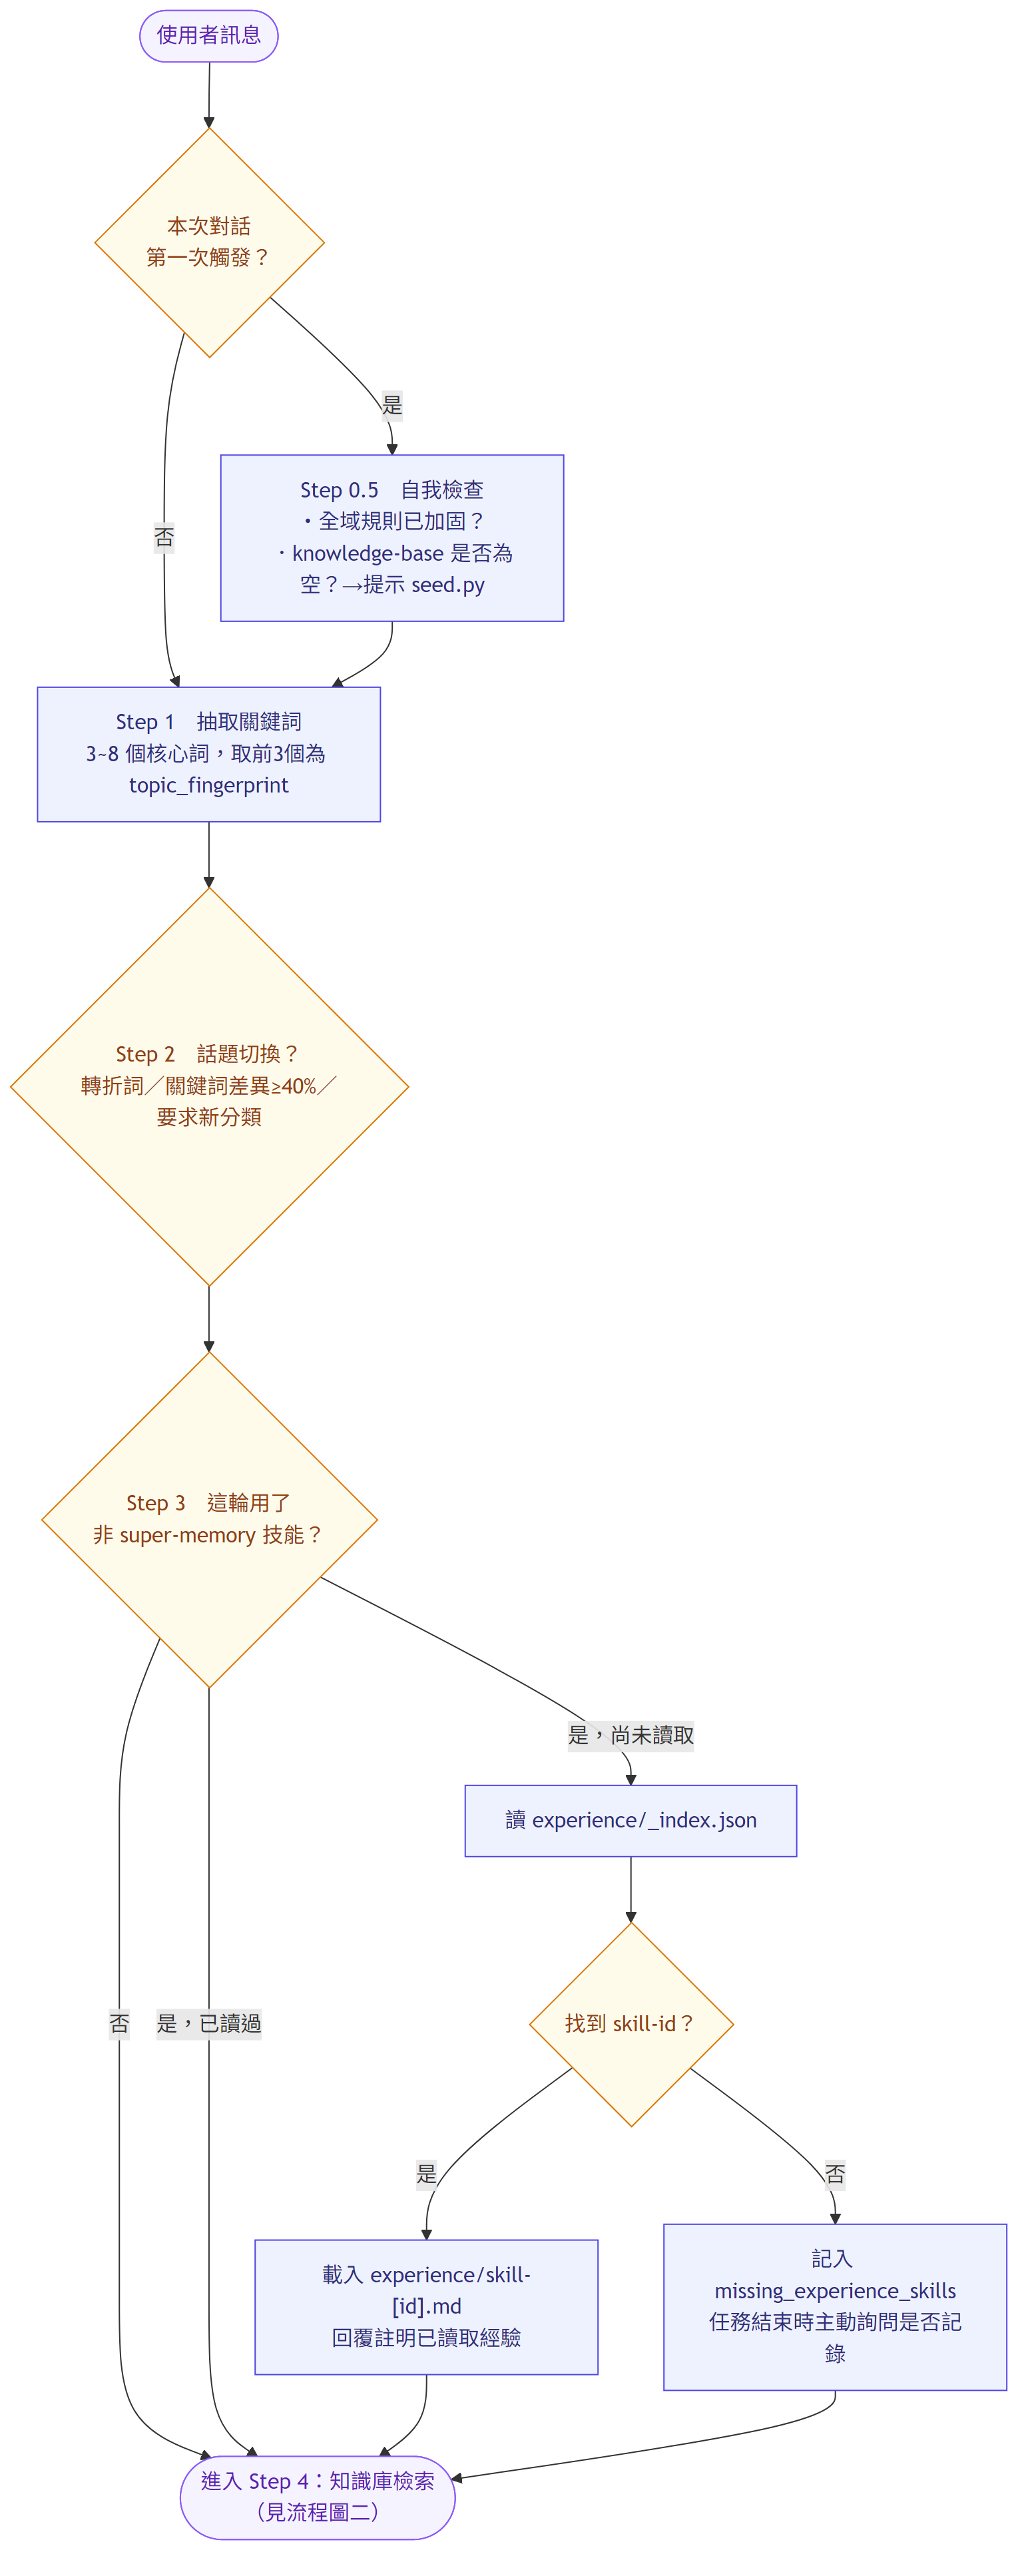
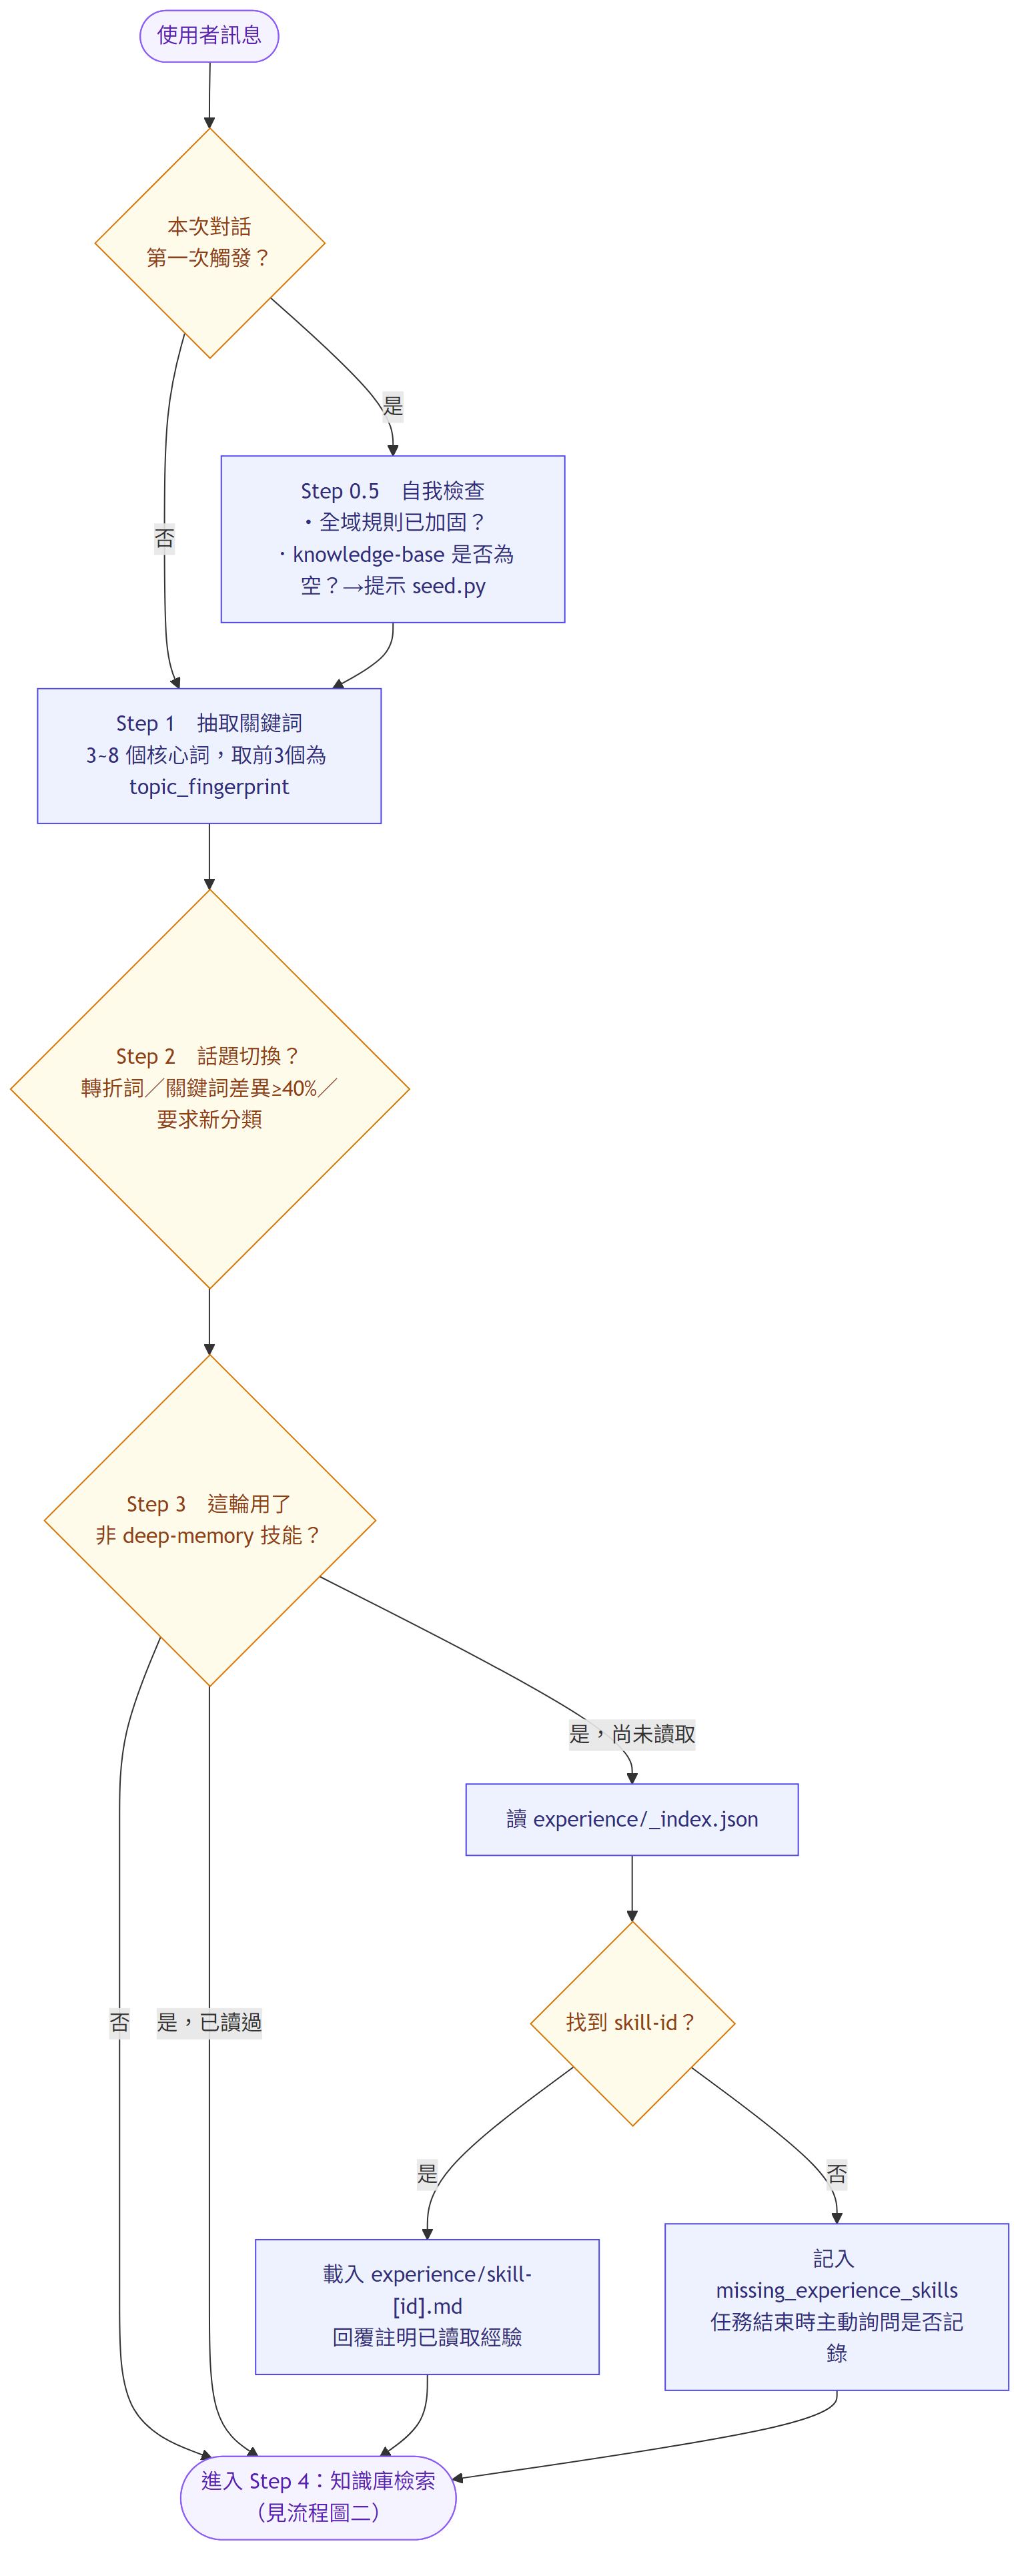
Rename project from super-memory to deep-memory
super-memory collided with an existing, similarly-scoped branded product
(supermemoryai's Supermemory, already listed in the Claude Code
marketplace) and several near-identical alternatives (UltraMemory,
OmniMemory, EverOS) checked while picking a replacement. Renames the
orchestrator skill directory, all docs, seed content, diagrams, and the
memory-backup default repo name accordingly.

diff --git a/skills/memory-backup/scripts/backup.py b/skills/memory-backup/scripts/backup.py
@@ -54,14 +54,14 @@ def ensure_remote_repo(repo_name: str, visibility: str):
         print(f"[OK] Remote repo already exists: {remote_url}")
     else:
         print(f"[INFO] Creating remote repo: {user}/{repo_name} ({visibility})...")
-        run(f'gh repo create {repo_name} --{visibility} --description "Super-Memory knowledge base backup" --confirm', check=False)
+        run(f'gh repo create {repo_name} --{visibility} --description "Deep-Memory knowledge base backup" --confirm', check=False)
         # 新版 gh CLI 已移除 --confirm 旗標（呼叫會直接報錯，check=False 讓它安靜失敗）；
         # 新版在名稱／可見度等必要參數齊全時本就不會互動詢問，因此重試時直接省略該旗標即可
         result2 = subprocess.run(
             f"gh repo view {user}/{repo_name}", shell=True, capture_output=True
         )
         if result2.returncode != 0:
-            run(f'gh repo create {user}/{repo_name} --{visibility} --description "Super-Memory knowledge base backup"')
+            run(f'gh repo create {user}/{repo_name} --{visibility} --description "Deep-Memory knowledge base backup"')
         print(f"[OK] Created remote repo: {remote_url}")
 
     return remote_url
@@ -84,7 +84,7 @@ def main():
     parser.add_argument("--workspace", type=str, default=os.getcwd(), help="Workspace root path")
     # 固定預設 repo 名稱：多數使用者永遠不用打 --repo，天然避免跨裝置/跨時間打錯字造成備份分裂成兩個倉庫；
     # 仍保留覆蓋能力給真的需要自訂名稱的情境
-    parser.add_argument("--repo", type=str, default="super-memory-knowledge", help="GitHub repo name (default: super-memory-knowledge)")
+    parser.add_argument("--repo", type=str, default="deep-memory-knowledge", help="GitHub repo name (default: deep-memory-knowledge)")
     parser.add_argument("--visibility", type=str, default="private",
                         choices=["private", "public"], help="Repo visibility")
     parser.add_argument("--message", type=str, default="", help="Custom commit message")

diff --git a/skills/memory-backup/scripts/restore.py b/skills/memory-backup/scripts/restore.py
@@ -101,8 +101,8 @@ def main():
     parser.add_argument("--workspace", type=str, default=os.getcwd(),
                         help="工作目錄（知識庫還原的目標根目錄），預設為當前目錄")
     # 固定預設值需與 backup.py 一致，否則還原時抓錯 repo
-    parser.add_argument("--repo", type=str, default="super-memory-knowledge",
-                        help="GitHub backup repo 名稱（預設：super-memory-knowledge）")
+    parser.add_argument("--repo", type=str, default="deep-memory-knowledge",
+                        help="GitHub backup repo 名稱（預設：deep-memory-knowledge）")
     parser.add_argument("--overwrite", action="store_true",
                         help="覆蓋模式：完全取代本機的 knowledge-base/ 與 experience/。預設為安全模式（僅補入缺少的檔案）")
     args = parser.parse_args()

diff --git a/README.md b/README.md
@@ -1,24 +1,24 @@
-# Super-Memory: A Self-Evolving Knowledge Accumulation & Hybrid Retrieval System
+# Deep-Memory: A Self-Evolving Knowledge Accumulation & Hybrid Retrieval System
 
 **English** | [繁體中文](README.zh-TW.md)
 
 > 💡 **Project note**: This project is a deep refactor and rename of the original **[auto-skill](https://github.com/toolsai/auto-skill)** project. We restructured it into a minimal, modular open-source skill pack, decoupled "code" from "data," and integrated local ChromaDB hybrid retrieval with BGE-Reranker re-ranking.
 
-![Super-Memory Flow](assets/super-memory-flow.en.svg)
+![Deep-Memory Flow](assets/deep-memory-flow.en.svg)
 
 This skill turns your AI agent from a tool that forgets everything the moment a session ends into a self-evolving "second brain" that gets better the more you use it.
 
-Super-Memory is a meta-skill designed for AI assistants. It runs as a background knowledge system that automatically retrieves past experience during conversations, captures best practices, and — once a task succeeds — proactively writes the "successful approach" into your private knowledge base and indexes it, intelligently cutting down on token usage. You just keep working as usual; Super-Memory runs automatically in the background.
+Deep-Memory is a meta-skill designed for AI assistants. It runs as a background knowledge system that automatically retrieves past experience during conversations, captures best practices, and — once a task succeeds — proactively writes the "successful approach" into your private knowledge base and indexes it, intelligently cutting down on token usage. You just keep working as usual; Deep-Memory runs automatically in the background.
 
 ---
 
 ## Core Highlights
 
 ### 1. Genuinely Gets Stronger With Use
-Traditional agents reset to zero the moment a conversation ends. Super-Memory's Core Loop automatically checks a keyword index on every turn — if it recognizes a problem it has solved before, it directly recalls the "best solution" or "pitfall guide" from that time.
+Traditional agents reset to zero the moment a conversation ends. Deep-Memory's Core Loop automatically checks a keyword index on every turn — if it recognizes a problem it has solved before, it directly recalls the "best solution" or "pitfall guide" from that time.
 
 ### 2. Cross-Skill Memory
-Whenever you invoke another specific skill (coding, writing, drawing, etc.), Super-Memory automatically checks its skill experience store.
+Whenever you invoke another specific skill (coding, writing, drawing, etc.), Deep-Memory automatically checks its skill experience store.
 Example: when you invoke `remotion-video-gen`, it proactively reminds you: "Last time we worked on this, setting FPS to 30 caused audio/video desync — we recommend switching to 60."
 
 ### 3. Proactive Experience Capture
@@ -38,7 +38,7 @@ Integrates the `memory-backup` sub-skill: export your knowledge base and push it
 
 ## How It Works (The Loop)
 
-Super-Memory runs a disciplined 5-step loop on every conversation turn:
+Deep-Memory runs a disciplined 5-step loop on every conversation turn:
 
 1. **Keyword Fingerprinting**
    Extracts core keywords from the conversation to generate a topic fingerprint.
@@ -72,7 +72,7 @@ Super-Memory runs a disciplined 5-step loop on every conversation turn:
 ### 1) Skill Install Package (GitHub Release Pack)
 ```text
 skills/
-├── super-memory/
+├── deep-memory/
 │   ├── SKILL.md                 # Lead protocol and flow control
 │   ├── scripts/seed.py          # Installs the bundled seed knowledge base
 │   └── resources/                # Recording format & hot/cold rules (loaded on demand)
@@ -128,7 +128,7 @@ your-project/
    ```powershell
    python -m venv .venv
    .venv\Scripts\python -m pip install -r skills/chroma-hybrid-search/requirements.txt
-   .venv\Scripts\python skills/super-memory/scripts/seed.py
+   .venv\Scripts\python skills/deep-memory/scripts/seed.py
    .venv\Scripts\python skills/chroma-hybrid-search/scripts/update_db.py
    ```
 
@@ -136,7 +136,7 @@ your-project/
    ```bash
    python3 -m venv .venv
    .venv/bin/python -m pip install -r skills/chroma-hybrid-search/requirements.txt
-   .venv/bin/python skills/super-memory/scripts/seed.py
+   .venv/bin/python skills/deep-memory/scripts/seed.py
    .venv/bin/python skills/chroma-hybrid-search/scripts/update_db.py
    ```
 

diff --git a/README.zh-TW.md b/README.zh-TW.md
@@ -1,24 +1,24 @@
-# Super‑Memory：AI 自進化知識積累與混合檢索系統
+# Deep‑Memory：AI 自進化知識積累與混合檢索系統
 
 [English](README.md) | **繁體中文**
 
 > 💡 **專案說明**：本專案是由原 **[auto-skill](https://github.com/toolsai/auto-skill)** 專案深度優化與更名演進而來。我們將其重構為極簡且模組化的開源技能包，解耦了「代碼與資料」，並整合了本地 ChromaDB 混合檢索與 BGE-Reranker 重排能力。
 
-![Super‑Memory Flow](assets/super-memory-flow.svg)
+![Deep‑Memory Flow](assets/deep-memory-flow.svg)
 
 這個技能是讓你的 AI Agent 不再是「用完即忘」的工具，而是越用越懂你的自進化「第二大腦」。
 
-Super‑Memory 是一個為 AI Assistant 設計的元技能（Meta‑Skill）。它作為背景運行的知識系統，能在對話過程中自動檢索過往經驗、捕捉最佳實踐，並在任務成功時主動將「成功經驗」寫入你的私人知識庫並建立索引，聰明地減少 Tokens 消耗。你只需要照常提出需求，Super‑Memory 就會在背景自動運作。
+Deep‑Memory 是一個為 AI Assistant 設計的元技能（Meta‑Skill）。它作為背景運行的知識系統，能在對話過程中自動檢索過往經驗、捕捉最佳實踐，並在任務成功時主動將「成功經驗」寫入你的私人知識庫並建立索引，聰明地減少 Tokens 消耗。你只需要照常提出需求，Deep‑Memory 就會在背景自動運作。
 
 ---
 
 ## 核心亮點
 
 ### 1. 真正的「越用越強」
-傳統的 Agent 對話結束即歸零。Super‑Memory 透過核心循環（Core Loop），在每次對話中自動檢查關鍵字索引，若發現這是過去解決過的問題，會直接調用當時的「最佳解法」或「避坑指南」。
+傳統的 Agent 對話結束即歸零。Deep‑Memory 透過核心循環（Core Loop），在每次對話中自動檢查關鍵字索引，若發現這是過去解決過的問題，會直接調用當時的「最佳解法」或「避坑指南」。
 
 ### 2. 跨技能經驗層（Cross‑Skill Memory）
-當你呼叫其他特定 Skill（如 Coding、寫作、繪圖）時，Super‑Memory 會自動檢查技能經驗庫。
+當你呼叫其他特定 Skill（如 Coding、寫作、繪圖）時，Deep‑Memory 會自動檢查技能經驗庫。
 例如：當你調用 `remotion-video-gen` 時，它會主動提醒：「上次我們在做這個時，發現設定 FPS 30 會導致音畫不同步，建議改為 60。」
 
 ### 3. 主動式經驗捕獲
@@ -38,7 +38,7 @@ Super‑Memory 是一個為 AI Assistant 設計的元技能（Meta‑Skill）。
 
 ## 運作邏輯（The Loop）
 
-Super‑Memory 在每一輪對話中執行嚴謹的 5 步循環：
+Deep‑Memory 在每一輪對話中執行嚴謹的 5 步循環：
 
 1. **關鍵詞指紋 (Fingerprinting)**
    從對話中提取核心關鍵詞，生成話題指紋。
@@ -72,7 +72,7 @@ Super‑Memory 在每一輪對話中執行嚴謹的 5 步循環：
 ### 1) 技能安裝包 (GitHub Release Pack)
 ```text
 skills/
-├── super-memory/
+├── deep-memory/
 │   ├── SKILL.md                 # 主導協議與流程控制
 │   ├── scripts/seed.py          # 預載種子知識庫安裝
 │   └── resources/                # 記錄格式・冷熱庫規則（延伸文件，依需求載入）
@@ -128,7 +128,7 @@ your-project/
    ```powershell
    python -m venv .venv
    .venv\Scripts\python -m pip install -r skills/chroma-hybrid-search/requirements.txt
-   .venv\Scripts\python skills/super-memory/scripts/seed.py
+   .venv\Scripts\python skills/deep-memory/scripts/seed.py
    .venv\Scripts\python skills/chroma-hybrid-search/scripts/update_db.py
    ```
 
@@ -136,7 +136,7 @@ your-project/
    ```bash
    python3 -m venv .venv
    .venv/bin/python -m pip install -r skills/chroma-hybrid-search/requirements.txt
-   .venv/bin/python skills/super-memory/scripts/seed.py
+   .venv/bin/python skills/deep-memory/scripts/seed.py
    .venv/bin/python skills/chroma-hybrid-search/scripts/update_db.py
    ```
 

diff --git a/skills/memory-backup/SKILL.md b/skills/memory-backup/SKILL.md
@@ -1,6 +1,6 @@
 ---
 name: memory-backup
-description: "Exports the local knowledge base (knowledge-base/, experience/) and ChromaDB vector data as JSONL, then backs it up to a dedicated private GitHub repository. Also supports cross-device restore from GitHub. Typically invoked by super-memory after new knowledge-base or experience entries are written in a session, but can also be run directly by the user at any time to back up or restore."
+description: "Exports the local knowledge base (knowledge-base/, experience/) and ChromaDB vector data as JSONL, then backs it up to a dedicated private GitHub repository. Also supports cross-device restore from GitHub. Typically invoked by deep-memory after new knowledge-base or experience entries are written in a session, but can also be run directly by the user at any time to back up or restore."
 ---
 
 # Memory Backup Skill — Knowledge Base GitHub Backup & Restore
@@ -52,7 +52,7 @@ gh auth login
 
 ## 🚀 Backup Commands
 
-`--repo` defaults to **`super-memory-knowledge`** — omit it entirely unless you specifically want a different repo name. This is deliberate: a fixed default means the same repo name every time, on every device, with no risk of a typo or a forgotten name silently creating a second, disconnected backup repo. Pass `--repo <name>` only to override.
+`--repo` defaults to **`deep-memory-knowledge`** — omit it entirely unless you specifically want a different repo name. This is deliberate: a fixed default means the same repo name every time, on every device, with no risk of a typo or a forgotten name silently creating a second, disconnected backup repo. Pass `--repo <name>` only to override.
 
 ### First Backup (Auto-creates GitHub private repo)
 ```bash
@@ -83,11 +83,11 @@ gh auth login
 ### Scenario: Restoring the knowledge base from GitHub on a new machine
 
 #### Step 1: Install the skill environment
-Complete the super-memory skill package installation on the new device. Refer to `skills/chroma-hybrid-search/SKILL.md`.
+Complete the deep-memory skill package installation on the new device. Refer to `skills/chroma-hybrid-search/SKILL.md`.
 
 #### Step 2: Run the restore script
 
-`--repo` defaults to the same **`super-memory-knowledge`** as `backup.py` — omit it unless you backed up under a custom name, in which case pass the same `--repo <name>` here too.
+`--repo` defaults to the same **`deep-memory-knowledge`** as `backup.py` — omit it unless you backed up under a custom name, in which case pass the same `--repo <name>` here too.
 
 **Safe mode (recommended) — only copies files that exist on GitHub but are missing locally; does not overwrite existing files:**
 ```bash

diff --git a/skills/chroma-hybrid-search/SKILL.md b/skills/chroma-hybrid-search/SKILL.md
@@ -1,6 +1,6 @@
 ---
 name: chroma-hybrid-search
-description: "Performs high-precision hybrid retrieval (BM25 + ChromaDB vector search + BGE-Reranker semantic re-ranking) over the local hot store (knowledge-base/, experience/) and cold store (cold-notes/raw.jsonl). Use this skill when high-accuracy code or solution retrieval is needed and AI hallucination must be minimized. Running for the first time in a directory will automatically trigger initialization. Typically invoked by super-memory's knowledge-base retrieval step when keyword matching is insufficient, but can also be called directly for ad-hoc searches."
+description: "Performs high-precision hybrid retrieval (BM25 + ChromaDB vector search + BGE-Reranker semantic re-ranking) over the local hot store (knowledge-base/, experience/) and cold store (cold-notes/raw.jsonl). Use this skill when high-accuracy code or solution retrieval is needed and AI hallucination must be minimized. Running for the first time in a directory will automatically trigger initialization. Typically invoked by deep-memory's knowledge-base retrieval step when keyword matching is insufficient, but can also be called directly for ad-hoc searches."
 ---
 
 # Chroma Hybrid Search Skill